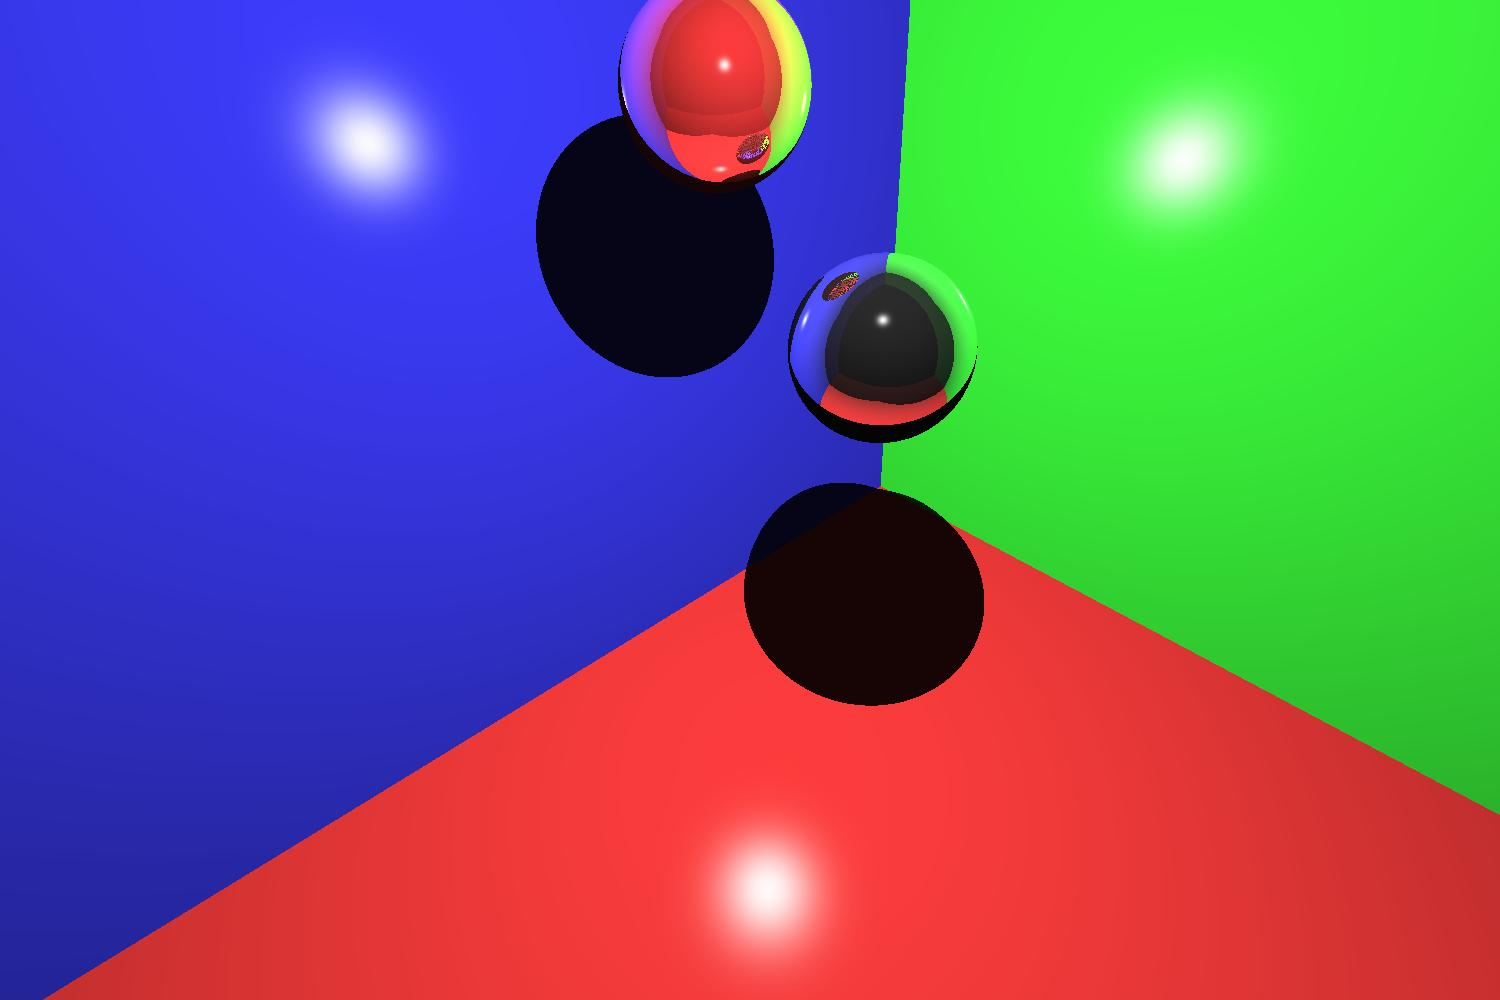
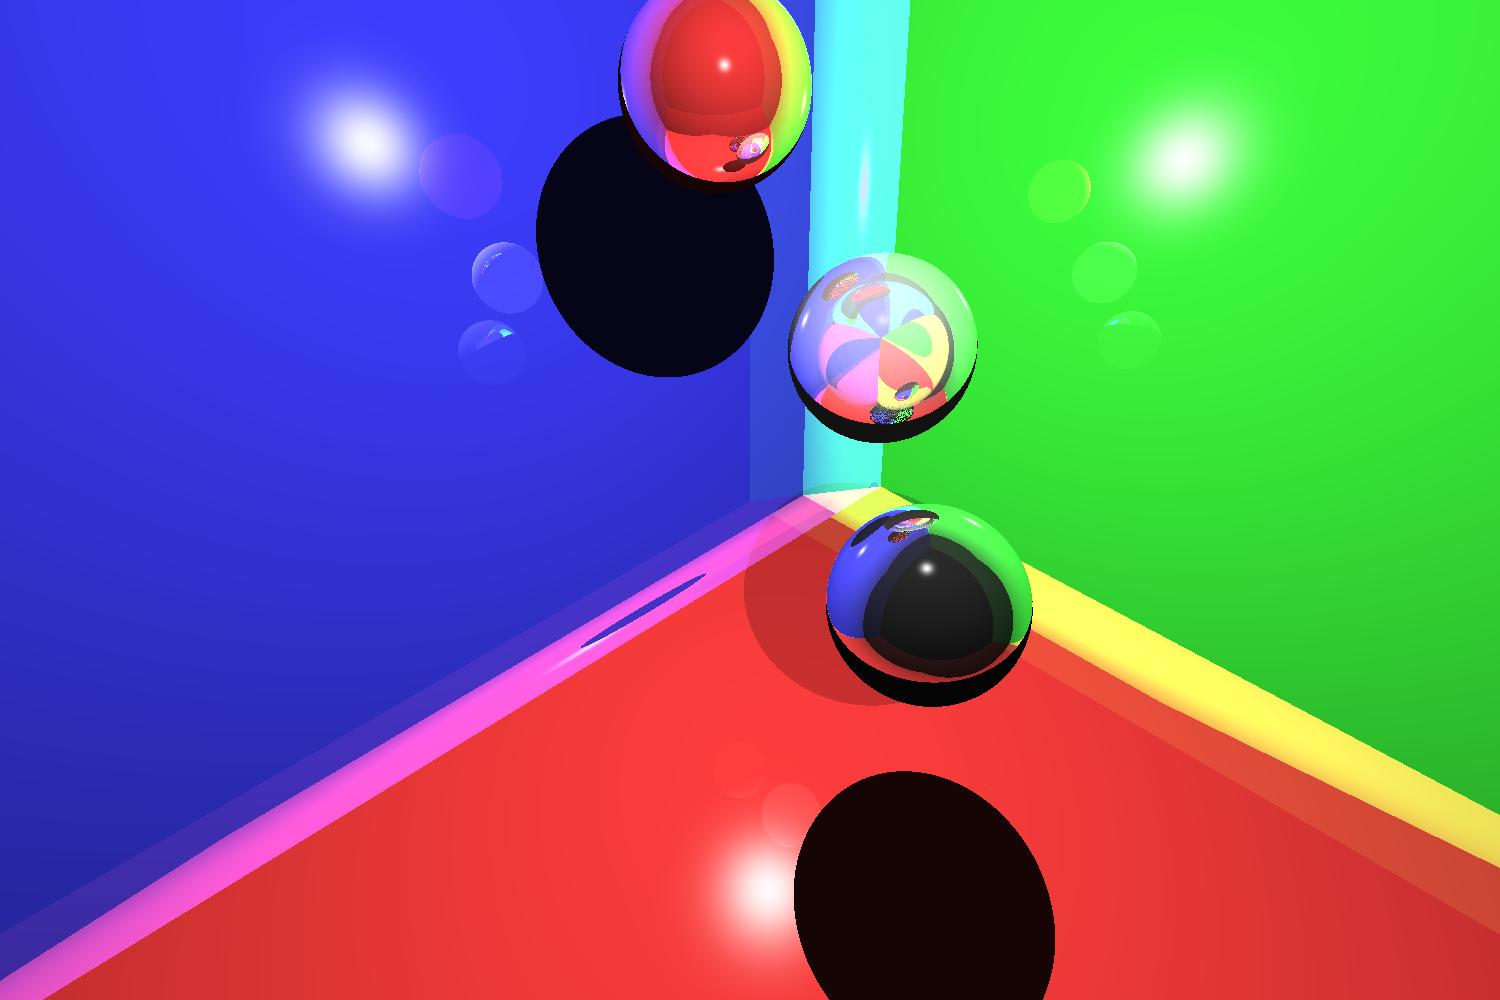
refractados

diff --git a/src/trazadorrayos/OperacionesEscena.java b/src/trazadorrayos/OperacionesEscena.java
@@ -55,7 +55,7 @@ public class OperacionesEscena {
 		 * la escen, y si lo hace, quedarnos unicamente con el objeto mas
 		 * cercano a pa pantalla
 		 */
-		color = colorDesdeRayo(escena, rayo, maxDepth, minIntensity, null);
+		color = colorDesdeRayo(escena, rayo, maxDepth, minIntensity, null,false);
 
 		return color;
 
@@ -65,7 +65,7 @@ public class OperacionesEscena {
 	 * Devuelve el color que devuelve un rayo al golpear una figura en un punto
 	 */
 	public static Color colorDesdeRayo(Escena escena, Rayo rayo, int MaxDepth,
-			double minIntensity, Figura desde) {
+			double minIntensity, Figura desde, boolean refractadoParaSalir) {
 
 		Color color = null;
 
@@ -123,7 +123,7 @@ public class OperacionesEscena {
 			refractado.y = auxR * normal.y - refrac * rayo.getDireccion().y;
 			refractado.z = auxR * normal.z - refrac * rayo.getDireccion().z;
 			refractado.w = auxR * normal.w - refrac * rayo.getDireccion().w;
-			refractado.normalize();
+			refractado.normalize(); 
 
 			/*
 			 * Ahora tienes el angulo refractado y el angulo reflejado, ahora
@@ -140,138 +140,154 @@ public class OperacionesEscena {
 			 * intereseccion ya pasas al tercer modelo
 			 */
 
-			boolean noVisible = interseccionAFocoTapado(punto,
+			double noVisible = interseccionAFocoTapado(punto,
 					escena.getFoco(), escena.getFiguras(), figura);
 
-			if (noVisible) {
-				double intensidad = escena.getFoco().getIntensidadAmbiente();
-				int red = (int) (intensidad * figura.kd.getRed());
-				int blue = (int) (intensidad * figura.kd.getBlue());
-				int green = (int) (intensidad * figura.kd.getGreen());
-				color = new Color(red, green, blue);
+                        if(refractadoParaSalir){
+                                    double intensidadRefractadoR=(1-reflec)*escena.getFoco().getColor().getRed();
+                                      double  intensidadRefractadoG=(1-reflec)*escena.getFoco().getColor().getGreen();
+                                      double intensidadRefractadoB=(1-reflec)*escena.getFoco().getColor().getBlue();
+                                      Color colorRayoRefractado=new Color((int)intensidadRefractadoR,
+                                      (int)intensidadRefractadoG,(int)intensidadRefractadoB);
+                                      Rayo rayoRefractado = new Rayo(refractado, punto, colorRayoRefractado);
+                            return  colorDesdeRayo(escena, rayoRefractado,
+                                      MaxDepth--, minIntensity, figura,false);
+                        }
+                        else{
+                            if (noVisible==1) {
+                                    double intensidad = escena.getFoco().getIntensidadAmbiente();
+                                    int red = (int) (intensidad * figura.kd.getRed());
+                                    int blue = (int) (intensidad * figura.kd.getBlue());
+                                    int green = (int) (intensidad * figura.kd.getGreen());
+                                    color = new Color(red, green, blue);
 
-			}
-			else {
-				// Calculas la intensidad en tu punto
-				Vector4d rayoAlOjo = new Vector4d();
-				rayoAlOjo.x = escena.getCamara().getPosicion().x - punto.x;
-				rayoAlOjo.y = escena.getCamara().getPosicion().y - punto.y;
-				rayoAlOjo.z = escena.getCamara().getPosicion().z - punto.z;
-				rayoAlOjo.w = 0;
-				Vector4d rayoAlFoco = new Vector4d();
-				rayoAlFoco.x = escena.getFoco().getPosicion().x - punto.x;
-				rayoAlFoco.y = escena.getFoco().getPosicion().y - punto.y;
-				rayoAlFoco.z = escena.getFoco().getPosicion().z - punto.z;
-				rayoAlFoco.w = 0;
-				rayoAlFoco.normalize();
-				rayoAlOjo.normalize();
-				// ambiental
-				double intensidadR = escena.getFoco().getIntensidadAmbiente()
-						* figura.kd.getRed();
-				double intensidadG = escena.getFoco().getIntensidadAmbiente()
-						* figura.kd.getGreen();
-				double intensidadB = escena.getFoco().getIntensidadAmbiente()
-						* figura.kd.getBlue();
-				// difusa
-				double cosenoDif = rayoAlFoco.dot(normal) / normal.length()
-						/ rayoAlFoco.length();
+                            }
+                            else {
+                                double TapanObjetosTranslucidos=1-noVisible;
+                                    // Calculas la intensidad en tu punto
+                                    Vector4d rayoAlOjo = new Vector4d();
+                                    rayoAlOjo.x = escena.getCamara().getPosicion().x - punto.x;
+                                    rayoAlOjo.y = escena.getCamara().getPosicion().y - punto.y;
+                                    rayoAlOjo.z = escena.getCamara().getPosicion().z - punto.z;
+                                    rayoAlOjo.w = 0;
+                                    Vector4d rayoAlFoco = new Vector4d();
+                                    rayoAlFoco.x = escena.getFoco().getPosicion().x - punto.x;
+                                    rayoAlFoco.y = escena.getFoco().getPosicion().y - punto.y;
+                                    rayoAlFoco.z = escena.getFoco().getPosicion().z - punto.z;
+                                    rayoAlFoco.w = 0;
+                                    rayoAlFoco.normalize();
+                                    rayoAlOjo.normalize();
+                                    // ambiental
+                                    double intensidadR = escena.getFoco().getIntensidadAmbiente()
+                                                    * figura.kd.getRed();
+                                    double intensidadG = escena.getFoco().getIntensidadAmbiente()
+                                                    * figura.kd.getGreen();
+                                    double intensidadB = escena.getFoco().getIntensidadAmbiente()
+                                                    * figura.kd.getBlue();
+                                    // difusa
+                                    double cosenoDif = rayoAlFoco.dot(normal) / normal.length()
+                                                    / rayoAlFoco.length();
 
-				double IpartDifR = figura.kd.getRed()
-						* escena.getFoco().getColor().getRed() / 255
-						* cosenoDif;
-				double IpartDifG = figura.kd.getGreen()
-						* escena.getFoco().getColor().getGreen() / 255
-						* cosenoDif;
-				double IpartDifB = figura.kd.getBlue()
-						* escena.getFoco().getColor().getBlue() / 255
-						* cosenoDif;
-				// especular
-				rayoAlOjo.normalize();
-				double aux2 = 2 * normal.dot(rayoAlFoco);
+                                    double IpartDifR = figura.kd.getRed()
+                                                    * escena.getFoco().getColor().getRed() / 255
+                                                    * cosenoDif;
+                                    double IpartDifG = figura.kd.getGreen()
+                                                    * escena.getFoco().getColor().getGreen() / 255
+                                                    * cosenoDif;
+                                    double IpartDifB = figura.kd.getBlue()
+                                                    * escena.getFoco().getColor().getBlue() / 255
+                                                    * cosenoDif;
+                                    // especular
+                                    rayoAlOjo.normalize();
+                                    double aux2 = 2 * normal.dot(rayoAlFoco);
 
-				Vector4d reflejado2 = new Vector4d();
-				// 2*(l*N)N
-				reflejado2.x = aux2 * normal.x;
-				reflejado2.y = aux2 * normal.y;
-				reflejado2.z = aux2 * normal.z;
-				reflejado2.w = normal.w;
+                                    Vector4d reflejado2 = new Vector4d();
+                                    // 2*(l*N)N
+                                    reflejado2.x = aux2 * normal.x;
+                                    reflejado2.y = aux2 * normal.y;
+                                    reflejado2.z = aux2 * normal.z;
+                                    reflejado2.w = normal.w;
 
-				// 2*(V*N)N - l
-				reflejado2.x = rayoAlFoco.x - reflejado2.x;
-				reflejado2.z = rayoAlFoco.z - reflejado2.z;
-				reflejado2.y = rayoAlFoco.y - reflejado2.y;
-				reflejado2.w = rayoAlFoco.w - reflejado2.w;
-				reflejado2.normalize();
-				reflejado2.negate();
-				double cosenoEsp = reflejado2.dot(rayoAlOjo)
-						/ rayoAlOjo.length() / reflejado2.length();
+                                    // 2*(V*N)N - l
+                                    reflejado2.x = rayoAlFoco.x - reflejado2.x;
+                                    reflejado2.z = rayoAlFoco.z - reflejado2.z;
+                                    reflejado2.y = rayoAlFoco.y - reflejado2.y;
+                                    reflejado2.w = rayoAlFoco.w - reflejado2.w;
+                                    reflejado2.normalize();
+                                    reflejado2.negate();
+                                    double cosenoEsp = reflejado2.dot(rayoAlOjo)
+                                                    / rayoAlOjo.length() / reflejado2.length();
 
-				if (cosenoEsp < 0) cosenoEsp = 0;
+                                    if (cosenoEsp < 0) cosenoEsp = 0;
 
-				cosenoEsp = Math.pow(cosenoEsp, 150);
-				double IpartEspR = figura.ks.getRed()
-						* escena.getFoco().getColor().getRed() / 255
-						* cosenoEsp;
-				double IpartEspG = figura.ks.getGreen()
-						* escena.getFoco().getColor().getGreen() / 255
-						* cosenoEsp;
-				double IpartEspB = figura.ks.getBlue()
-						* escena.getFoco().getColor().getBlue() / 255
-						* cosenoEsp;
+                                    cosenoEsp = Math.pow(cosenoEsp, 150);
+                                    double IpartEspR = figura.ks.getRed()
+                                                    * escena.getFoco().getColor().getRed() / 255
+                                                    * cosenoEsp;
+                                    double IpartEspG = figura.ks.getGreen()
+                                                    * escena.getFoco().getColor().getGreen() / 255
+                                                    * cosenoEsp;
+                                    double IpartEspB = figura.ks.getBlue()
+                                                    * escena.getFoco().getColor().getBlue() / 255
+                                                    * cosenoEsp;
 
-				intensidadR += IpartDifR + IpartEspR;
-				intensidadG += IpartDifG + IpartEspG;
-				intensidadB += IpartDifB + IpartEspB;
-				int red = (int) intensidadR;
-				int green = (int) intensidadG;
-				int blue = (int) intensidadB;
+                                    intensidadR += IpartDifR + IpartEspR;
+                                    intensidadG += IpartDifG + IpartEspG;
+                                    intensidadB += IpartDifB + IpartEspB;
+                                    int red = (int) (intensidadR*TapanObjetosTranslucidos);
+                                    int green = (int) (intensidadG*TapanObjetosTranslucidos);
+                                    int blue = (int) (intensidadB*TapanObjetosTranslucidos);
 
-				double intensidadReflejadaR = reflec * IpartDifR;
-				double intensidadReflejadaG = reflec * IpartDifG;
-				double intensidadReflejadaB = reflec * IpartDifB;
-				Color colorRayoReflejado = new Color(
-						(int) intensidadReflejadaR, (int) intensidadReflejadaG,
-						(int) intensidadReflejadaB);
-				Rayo rayoReflejado = new Rayo(reflejado, punto,
-						colorRayoReflejado);
+                                    int intensidadReflejadaR = (int)(reflec *TapanObjetosTranslucidos* IpartDifR);
+                                    int intensidadReflejadaG = (int)(reflec *TapanObjetosTranslucidos* IpartDifG);
+                                    int intensidadReflejadaB =(int)( reflec *TapanObjetosTranslucidos* IpartDifB);
+                                    Color colorRayoReflejado = new Color(
+                                                     intensidadReflejadaR, intensidadReflejadaG,
+                                                    intensidadReflejadaB);
+                                    Rayo rayoReflejado = new Rayo(reflejado, punto,
+                                                    colorRayoReflejado);
 
-				/*
-				 * double
-				 * intensidadRefractadoR=(1-reflec)*rayo.getColor().getRed();
-				 * double
-				 * intensidadRefractadoG=(1-reflec)*rayo.getColor().getGreen();
-				 * double
-				 * intensidadRefractadoB=(1-reflec)*rayo.getColor().getBlue();
-				 * Color colorRayoRefractado=new
-				 * Color((int)intensidadRefractadoR,
-				 * (int)intensidadRefractadoG,(int)intensidadRefractadoB); Rayo
-				 * rayoRefractado = new Rayo(refractado, punto,
-				 * colorRayoRefractado);
-				 */
 
-				if (MaxDepth > 0
-						&& (intensidadReflejadaR + intensidadReflejadaG + intensidadReflejadaB) > minIntensity) {
-					Color colorReflejado = colorDesdeRayo(escena,
-							rayoReflejado, MaxDepth--, minIntensity, figura);
-					red += colorReflejado.getRed();
-					blue += colorReflejado.getBlue();
-					green += colorReflejado.getGreen();
-				}
-				/*
-				 * if (MaxDepth > 0 &&
-				 * (intensidadReflejadaR+intensidadReflejadaG
-				 * +intensidadReflejadaB) > minIntensity) { Color
-				 * colorRefractado = colorDesdeRayo(escena, rayoRefractado,
-				 * MaxDepth--, minIntensity, figura); red +=
-				 * colorRefractado.getRed(); blue += colorRefractado.getBlue();
-				 * green += colorRefractado.getGreen();
-				 * 
-				 * }
-				 */
-				color = normalizarColor(red, green, blue);
+                                      double intensidadRefractadoR=(1-reflec)*TapanObjetosTranslucidos*escena.getFoco().getColor().getRed();
+                                      double  intensidadRefractadoG=(1-reflec)*TapanObjetosTranslucidos*escena.getFoco().getColor().getGreen();
+                                      double intensidadRefractadoB=(1-reflec)*TapanObjetosTranslucidos*escena.getFoco().getColor().getBlue();
+                                      Color colorRayoRefractado=new Color((int)intensidadRefractadoR,
+                                      (int)intensidadRefractadoG,(int)intensidadRefractadoB);
+                                      Rayo rayoRefractado = new Rayo(refractado, punto, colorRayoRefractado);
 
-			}
 
+                                    if (MaxDepth > 0
+                                                    && (intensidadReflejadaR + intensidadReflejadaG + intensidadReflejadaB) > minIntensity) {
+                                            Color colorReflejado = colorDesdeRayo(escena,
+                                                            rayoReflejado, MaxDepth--, minIntensity, figura,false);
+                                            red += colorReflejado.getRed();
+                                            blue += colorReflejado.getBlue();
+                                            green += colorReflejado.getGreen();
+                                    }
+
+                                      if (MaxDepth > 0 &&
+                                      (intensidadRefractadoR+intensidadRefractadoB
+                                      +intensidadRefractadoG) > minIntensity) {
+                                          boolean esperarRefraccion=false;
+                                          if (figura instanceof Esfera) {
+                                              esperarRefraccion=true;
+                                          }
+                                          else{
+                                              int a=0;
+                                          }
+                                          Color colorRefractado = colorDesdeRayo(escena, rayoRefractado,
+                                      MaxDepth--, minIntensity, figura,esperarRefraccion);
+                                          red += colorRefractado.getRed();
+                                          blue += colorRefractado.getBlue();
+                                          green += colorRefractado.getGreen();
+
+                                      }
+
+                                    color = normalizarColor(red, green, blue);
+
+                            }
+                        
+                    }
 		}
 		else {
 			// No se intersecta con nada
@@ -312,9 +328,9 @@ public class OperacionesEscena {
 	 * @param figuras
 	 * @return
 	 */
-	public static boolean interseccionAFocoTapado(Point4d punto, Foco foco,
+	public static double interseccionAFocoTapado(Point4d punto, Foco foco,
 			ArrayList<Figura> figuras, Figura figura) {
-		boolean intersecta = false;
+		double intersecta = 0;
 		Vector4d rayoAlFoco = new Vector4d();
 		rayoAlFoco.x = foco.getPosicion().x - punto.x;
 		rayoAlFoco.y = foco.getPosicion().y - punto.y;
@@ -325,7 +341,7 @@ public class OperacionesEscena {
 				/ figura.getNormal(punto).length() / rayoAlFoco.length();
 
 		if (cosenoDif > 0) {
-			for (int i = 0; i < figuras.size() && !intersecta; i++) {
+			for (int i = 0; i < figuras.size() && intersecta!=1; i++) {
 
 				Rayo rayoPuntoFoco = new Rayo(rayoAlFoco, punto);
 				Point4d puntoInterseccion = Interseccion.intersecta(
@@ -336,7 +352,7 @@ public class OperacionesEscena {
 					double distanciaInterseccionFoco = puntoInterseccion
 							.distanceSquared(foco.getPosicion());
 					if (distanciaInterseccionFoco < distanciaPuntoFoco) {
-						intersecta = true;
+						intersecta = figuras.get(i).getIndiceReflectividad();
 					}
 				}
 
@@ -344,7 +360,7 @@ public class OperacionesEscena {
 		}
 
 		else {
-			intersecta = true;
+			intersecta = 1;
 		}
 		return intersecta;
 	}

diff --git a/README.md b/README.md
@@ -3,10 +3,11 @@
 Los siguientes pasos que faltan son:
 
 
-FALTA MATRICES DE TRANSPFORMACIONES,ANTIALIASING, REFRACCIONES, COMENTAR CODIGO  Y MEMORIA
+FALTA MATRICES DE TRANSPFORMACIONES,ANTIALIASING, COMENTAR CODIGO  Y MEMORIA
 
-SI TRANSPARENTE, MIRAR SI ES ESFERA PARA REFRECTADO SE PEGA CONSIGO MISMA ENEL RAYO REFLEJADO
-Y AL CALCULAR LA SOMBRA MIRAR SI INTERSECTA CON UNA FIGURA, MIRAR SI ES RANSPARENTE, SI ES RANSPARENTE DEL TODO, NO CONTARLO, SI ES PARCIAL, PENSAR COMO REDUCIR LA SOMBRA O PONERLE EL COLOR DE LA FIGURA
+PROBLEMAS CON LA REFRACCION, EL TRIANGULO Y EL PLANO TIENEN QUE SER SIEMPRE REFLEJANTES 1 PORQUE, COMO LA NORMAL SOLO LA PONEMOS EN UNA CARA, CUADNO EL RAYO REFRACTADO DE ESTOS INTERSECTA POR DETRAS SUYO (EN OTRO PLANO  O DONDE SEA) PARA ESE PUNTO NUEVO, LA LUZ ES VISIBLE Y SE SUMA MCHISIMO Y SALE MAL LA IMAGEN.
+PROBLEMA TAMBIEN QUE SE PEUDE REPICAR CON VER LA SOMBRA DE UN TRIGUANLO Y NO VERLO A EL.
+
 
 Cuando es transparente igual que tener menos en cuena el color del objeto y si es totalmente transparente solo tener en cuenta el rayo refractado y no del objeto
 Angulo refractado en la esfera hay que esperar a que vuelv a refractarse (devolver solo el rayo refactado)
